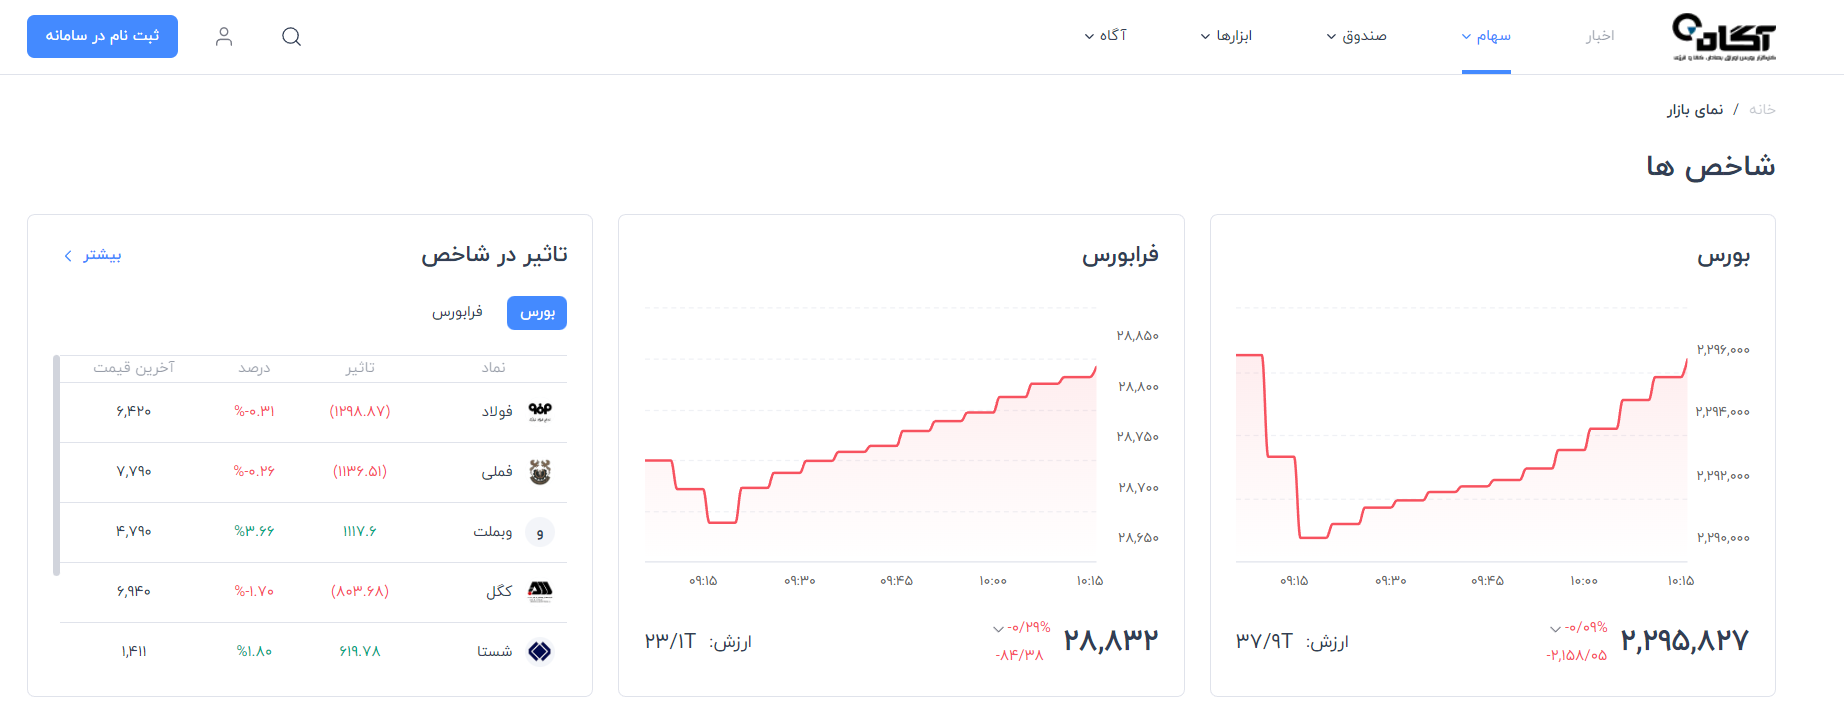
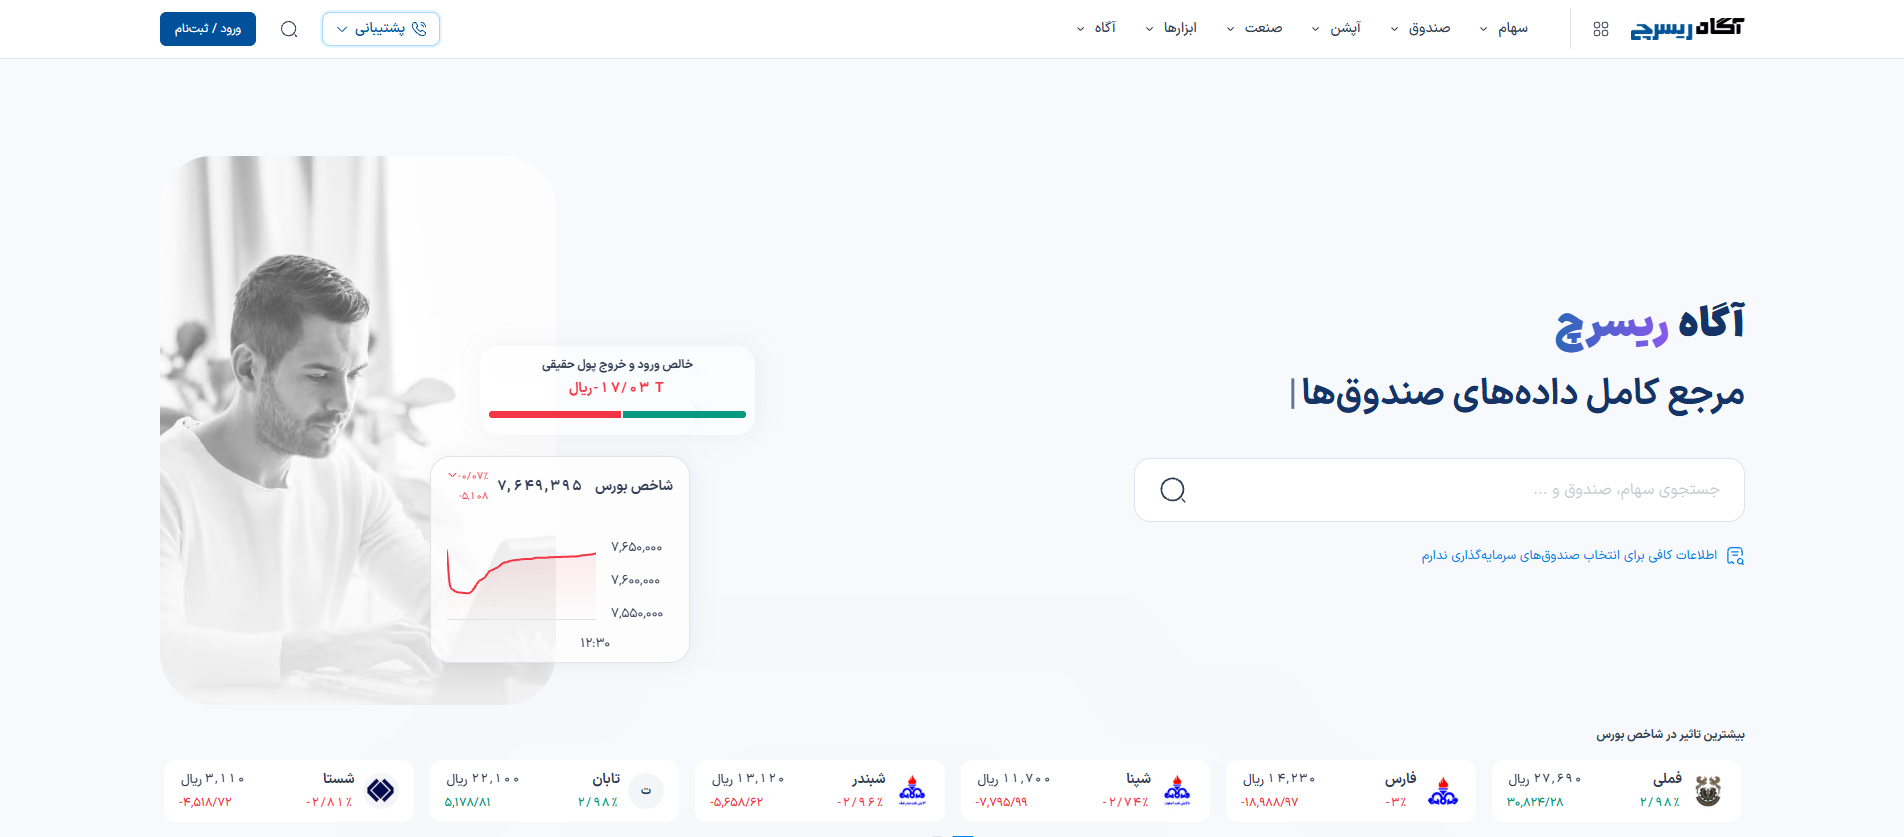
feat: update meta tags and author information in index.html, including localization and enhanced SEO; replace project image with updated version

diff --git a/public/index.html b/public/index.html
@@ -5,8 +5,11 @@
     <link rel="icon" href="%PUBLIC_URL%/favicon.ico" />
     <meta name="viewport" content="width=device-width, initial-scale=1" />
     <meta name="theme-color" content="#000000" />
-    <meta name="description" content="full-stack web developer since 2015" />
-    <meta name="author" content="shahrooz.bazrafshan@gmail.com" />
+    <meta
+      name="description"
+      content="شهروز بذرافشان، توسعهدهنده ارشد فولاستک. Shahrooz Bazrafshan — senior full-stack developer since 2015."
+    />
+    <meta name="author" content="شهروز بذرافشان" />
     <link rel="apple-touch-icon" href="%PUBLIC_URL%/logo192.png" />
     <!--
       manifest.json provides metadata used when your web app is installed on a
@@ -39,7 +42,7 @@
     <!-- Open Graph / Social Media -->
     <meta
       property="og:title"
-      content="Shahrooz Bazrafshan - Senior Full-Stack Developer"
+      content="شهروز بذرافشان | Shahrooz Bazrafshan - Senior Full-Stack Developer"
     />
     <meta
       property="og:description"
@@ -63,7 +66,10 @@
       {
         "@context": "https://schema.org",
         "@type": "Person",
-        "name": "Shahrooz Bazrafshan",
+        "name": "شهروز بذرافشان",
+        "alternateName": ["Shahrooz Bazrafshan"],
+        "givenName": "شهروز",
+        "familyName": "بذرافشان",
         "email": "shahrooz.bazrafshan@gmail.com",
         "telephone": "+989334188184",
         "jobTitle": "Senior Full-Stack Developer",
@@ -139,7 +145,7 @@
         }
       }
     </script>
-    <title>shahrooz bazrafshan</title>
+    <title>شهروز بذرافشان | Shahrooz Bazrafshan</title>
   </head>
   <body>
     <noscript
